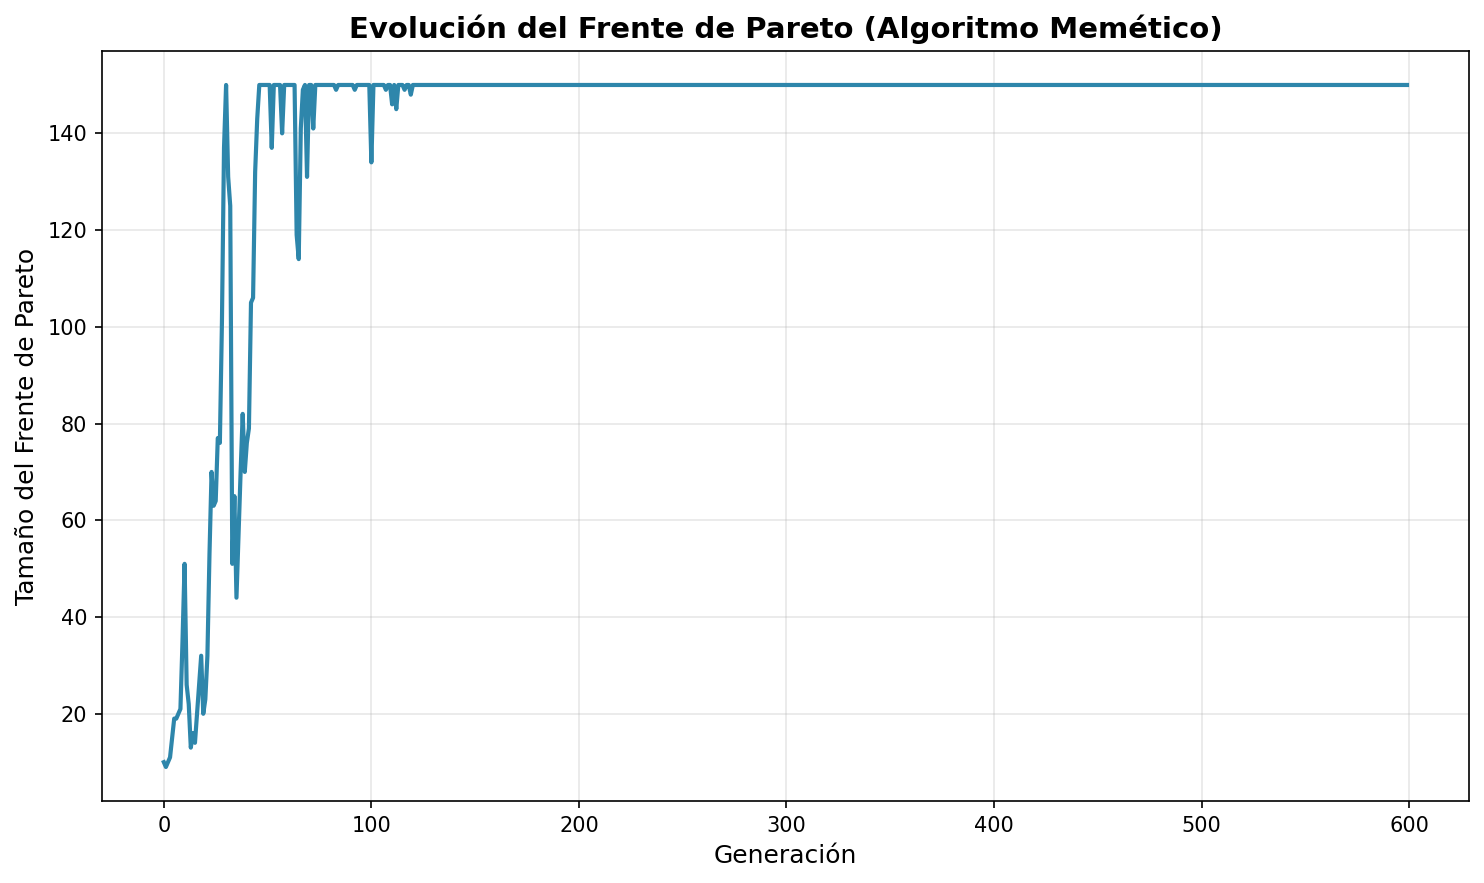
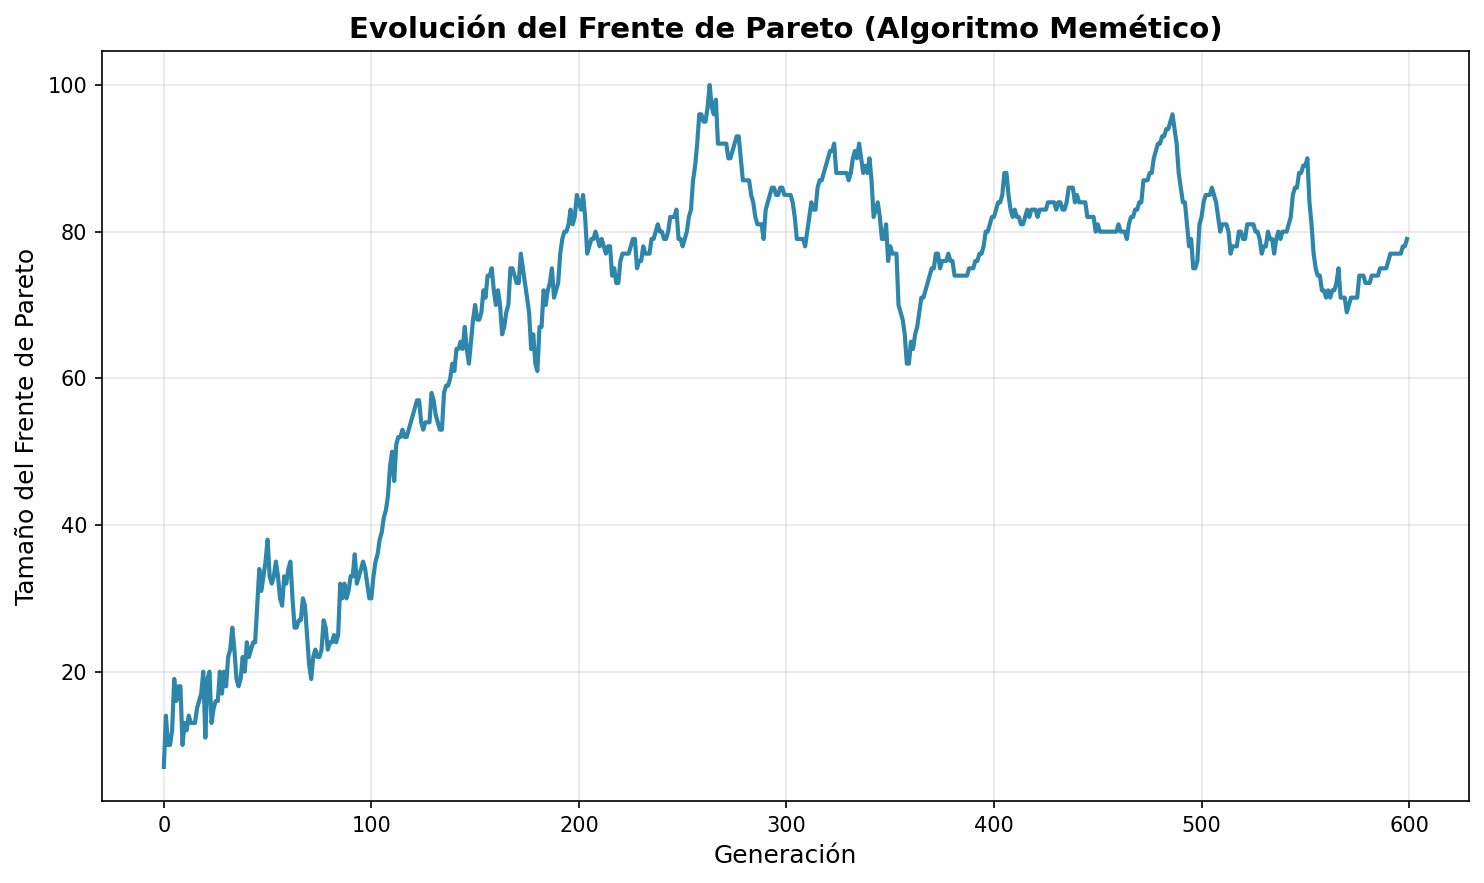
Actualización de resultados y optimización en `nsga2_memetic.py` y `nsga2.py`. Se modifican archivos de resultados gráficos y CSV, reflejando nuevos datos. En el código, se mejora la gestión del historial de frentes, asegurando que se registre correctamente después de aplicar filtros. Además, se imp

diff --git a/tesis3/src/algorithms/nsga2_memetic.py b/tesis3/src/algorithms/nsga2_memetic.py
@@ -146,8 +146,7 @@ def nsga2_memetic(config, metodo_cruce, metodo_mutacion,
             frentes = clasificacion_no_dominada(poblacion, fitness_poblacion)
             frente_size = len(frentes[0])
         
-        # Guardar tamaño del frente en el historial (se actualizará después del filtro si se aplica)
-        historial_frentes.append(frente_size)
+        # NO guardar historial aquí - se guardará al final después de todos los filtros
         
         # Aplicar búsqueda local cada k generaciones al frente de Pareto
         # RESPETANDO HIPERPARÁMETROS OPTIMIZADOS: cada_k_gen y max_iter_local del config
@@ -263,25 +262,16 @@ def nsga2_memetic(config, metodo_cruce, metodo_mutacion,
                 frentes[0] = indices_frente_filtrado
                 frente_size = len(frentes[0])
                 
-                # Actualizar historial con el tamaño REAL del frente filtrado
-                if len(historial_frentes) > 0:
-                    historial_frentes[-1] = frente_size
-        
-        # OPTIMIZACIÓN: Reducir frecuencia de mensajes en generaciones avanzadas
-        if verbose:
-            if es_generacion_muy_avanzada:
-                if gen % 100 == 0 or gen == 0:
-                    print(f"Gen {gen:3d} | Frente Pareto: {frente_size:3d} individuos")
-            elif es_generacion_avanzada:
-                if gen % 75 == 0 or gen == 0:
-                    print(f"Gen {gen:3d} | Frente Pareto: {frente_size:3d} individuos")
-            else:
-                if gen % 50 == 0 or gen == 0:
-                    print(
-                        f"Gen {gen:3d} | Frente Pareto: {frente_size:3d} individuos"
-                    )
+                # El historial se actualizará al final de la generación después de todos los filtros
         
         # Generar descendencia (igual que NSGA-II estándar)
+        # CRÍTICO: Recalcular frentes antes de generar descendencia
+        # para asegurar que los índices sean válidos después del filtro
+        if not reclasificar or aplicar_busqueda_local:
+            # Si no se reclasificó o se aplicó búsqueda local, recalcular frentes
+            frentes = clasificacion_no_dominada(poblacion, fitness_poblacion)
+            frente_size = len(frentes[0])
+        
         descendencia = []
         while len(descendencia) < tamano_poblacion:
             padre1 = torneo_binario_nsga2(
@@ -318,24 +308,119 @@ def nsga2_memetic(config, metodo_cruce, metodo_mutacion,
             epsilon_filtro=epsilon_filtro,
         )
         
-        # Recalcular frentes después de la selección para actualizar frente_size
-        # Esto asegura que el historial refleje el tamaño real del frente filtrado
-        if gen == num_generaciones - 1 or (gen + 1) % 10 == 0:
-            # Recalcular frentes periódicamente para mantener frente_size actualizado
-            fitness_poblacion_actual = []
-            for ind in poblacion:
-                genes_key = tuple(tuple(row) for row in ind.genes)
-                if genes_key in fitness_cache:
-                    fitness_poblacion_actual.append(fitness_cache[genes_key])
-                else:
-                    fit = fitness_multiobjetivo(ind, config)
-                    fitness_cache[genes_key] = fit
-                    fitness_poblacion_actual.append(fit)
-            frentes = clasificacion_no_dominada(poblacion, fitness_poblacion_actual)
-            frente_size = len(frentes[0])
-            # Actualizar historial con el tamaño real del frente después de selección
-            if len(historial_frentes) > 0:
-                historial_frentes[-1] = frente_size
+        # Recalcular frentes después de la selección para obtener tamaño real
+        fitness_poblacion_actual = []
+        for ind in poblacion:
+            genes_key = tuple(tuple(row) for row in ind.genes)
+            if genes_key in fitness_cache:
+                fitness_poblacion_actual.append(fitness_cache[genes_key])
+            else:
+                fit = fitness_multiobjetivo(ind, config)
+                fitness_cache[genes_key] = fit
+                fitness_poblacion_actual.append(fit)
+        frentes = clasificacion_no_dominada(poblacion, fitness_poblacion_actual)
+        frente_size = len(frentes[0])
+        
+        # Aplicar filtro adicional al frente después de selección SIEMPRE
+        # Esto previene que el frente se rellene con soluciones similares
+        # CRÍTICO: Aplicar siempre después de cada selección para mantener frente limpio
+        frente_size_antes_filtro = frente_size
+        if epsilon_filtro > 0 and frente_size > 1:
+            frente_actual = [poblacion[i] for i in frentes[0]]
+            fitness_frente_actual = [fitness_poblacion_actual[i] for i in frentes[0]]
+            
+            frente_filtrado, fitness_filtrado = filtrar_soluciones_similares(
+                frente_actual, fitness_frente_actual, epsilon_filtro
+            )
+            
+            if len(frente_filtrado) < frente_size:
+                # Actualizar el frente con las soluciones filtradas
+                genes_filtrados = {
+                    tuple(tuple(row) for row in sol.genes)
+                    for sol in frente_filtrado
+                }
+                indices_frente_filtrado = []
+                for idx in frentes[0]:
+                    genes_sol = tuple(
+                        tuple(row) for row in poblacion[idx].genes
+                    )
+                    if genes_sol in genes_filtrados:
+                        indices_frente_filtrado.append(idx)
+                
+                # CRÍTICO: Actualizar frentes y frente_size con el tamaño REAL del frente filtrado
+                frentes[0] = indices_frente_filtrado
+                frente_size_nuevo = len(frentes[0])
+                
+                # Verificar que el tamaño sea correcto
+                if frente_size_nuevo != len(frente_filtrado):
+                    # Si no coincide, usar el tamaño del frente filtrado directamente
+                    frente_size_nuevo = len(frente_filtrado)
+                    # Reconstruir indices_frente_filtrado para que coincida
+                    # Mapear soluciones filtradas a índices originales
+                    genes_a_indices = {}
+                    for idx in frentes[0]:
+                        genes_sol = tuple(
+                            tuple(row) for row in poblacion[idx].genes
+                        )
+                        genes_a_indices[genes_sol] = idx
+                    
+                    indices_frente_filtrado = []
+                    for sol in frente_filtrado:
+                        genes_sol = tuple(tuple(row) for row in sol.genes)
+                        if genes_sol in genes_a_indices:
+                            indices_frente_filtrado.append(genes_a_indices[genes_sol])
+                    
+                    frentes[0] = indices_frente_filtrado
+                
+                frente_size = len(frentes[0])
+                
+                # Log de depuración (solo en generaciones clave)
+                if verbose and (gen % 50 == 0 or gen < 10):
+                    eliminadas_post = len(frente_actual) - len(frente_filtrado)
+                    if eliminadas_post > 0:
+                        print(
+                            f"Gen {gen+1:3d} | Filtro post-selección: "
+                            f"{eliminadas_post} soluciones eliminadas "
+                            f"({len(frente_actual)} -> {len(frente_filtrado)}), "
+                            f"frente_size={frente_size}"
+                        )
+            else:
+                # Debug: si el filtro no eliminó nada, puede ser que realmente sean distintas
+                if verbose and gen % 100 == 0:
+                    print(
+                        f"Gen {gen+1:3d} | Filtro post-selección: "
+                        f"no se eliminaron soluciones (frente_size={frente_size})"
+                    )
+        
+        # CRÍTICO: Guardar historial AL FINAL de cada generación, después de TODOS los filtros
+        # Esto asegura que el historial refleje el tamaño REAL del frente filtrado
+        # Debug: verificar que frente_size sea el correcto
+        if verbose and gen % 100 == 0:
+            print(
+                f"Gen {gen+1:3d} | Guardando historial: frente_size={frente_size} "
+                f"(antes filtro post-selección: {frente_size_antes_filtro})"
+            )
+        historial_frentes.append(frente_size)
+        
+        # OPTIMIZACIÓN: Reducir frecuencia de mensajes en generaciones avanzadas
+        # NOTA: frente_size ya está actualizado después del filtro post-selección
+        # CRÍTICO: Imprimir DESPUÉS del filtro post-selección para mostrar tamaño correcto
+        if verbose:
+            if es_generacion_muy_avanzada:
+                if gen % 100 == 0 or gen == 0:
+                    print(
+                        f"Gen {gen:3d} | Frente Pareto: {frente_size:3d} individuos"
+                    )
+            elif es_generacion_avanzada:
+                if gen % 75 == 0 or gen == 0:
+                    print(
+                        f"Gen {gen:3d} | Frente Pareto: {frente_size:3d} individuos"
+                    )
+            else:
+                if gen % 50 == 0 or gen == 0:
+                    print(
+                        f"Gen {gen:3d} | Frente Pareto: {frente_size:3d} individuos"
+                    )
     
     # Frente final (usar cache)
     fitness_final = []
@@ -363,5 +448,10 @@ def nsga2_memetic(config, metodo_cruce, metodo_mutacion,
     if verbose:
         print(f"Optimización completada. Frente final: {len(frente_pareto)} soluciones")
         print(f"Búsqueda local aplicada {aplicaciones_local} veces")
+        # Debug: mostrar algunos valores del historial para verificar
+        if len(historial_frentes) > 0:
+            print(f"Historial: primeros 10 valores: {historial_frentes[:10]}")
+            print(f"Historial: últimos 10 valores: {historial_frentes[-10:]}")
+            print(f"Historial: min={min(historial_frentes)}, max={max(historial_frentes)}, promedio={sum(historial_frentes)/len(historial_frentes):.1f}")
     
     return frente_pareto, fitness_pareto, historial_frentes

diff --git a/tesis3/src/algorithms/nsga2.py b/tesis3/src/algorithms/nsga2.py
@@ -356,8 +356,20 @@ def torneo_binario_nsga2(poblacion, fitness_poblacion, frentes):
     """
     idx1, idx2 = random.sample(range(len(poblacion)), 2)
     
-    frente1 = next(i for i, f in enumerate(frentes) if idx1 in f)
-    frente2 = next(i for i, f in enumerate(frentes) if idx2 in f)
+    # Encontrar el frente de cada índice de forma segura
+    frente1 = None
+    frente2 = None
+    for i, f in enumerate(frentes):
+        if idx1 in f:
+            frente1 = i
+        if idx2 in f:
+            frente2 = i
+    
+    # Si algún índice no está en ningún frente, usar el último frente
+    if frente1 is None:
+        frente1 = len(frentes) - 1 if frentes else 0
+    if frente2 is None:
+        frente2 = len(frentes) - 1 if frentes else 0
     
     if frente1 != frente2:
         return poblacion[idx1] if frente1 < frente2 else poblacion[idx2]
